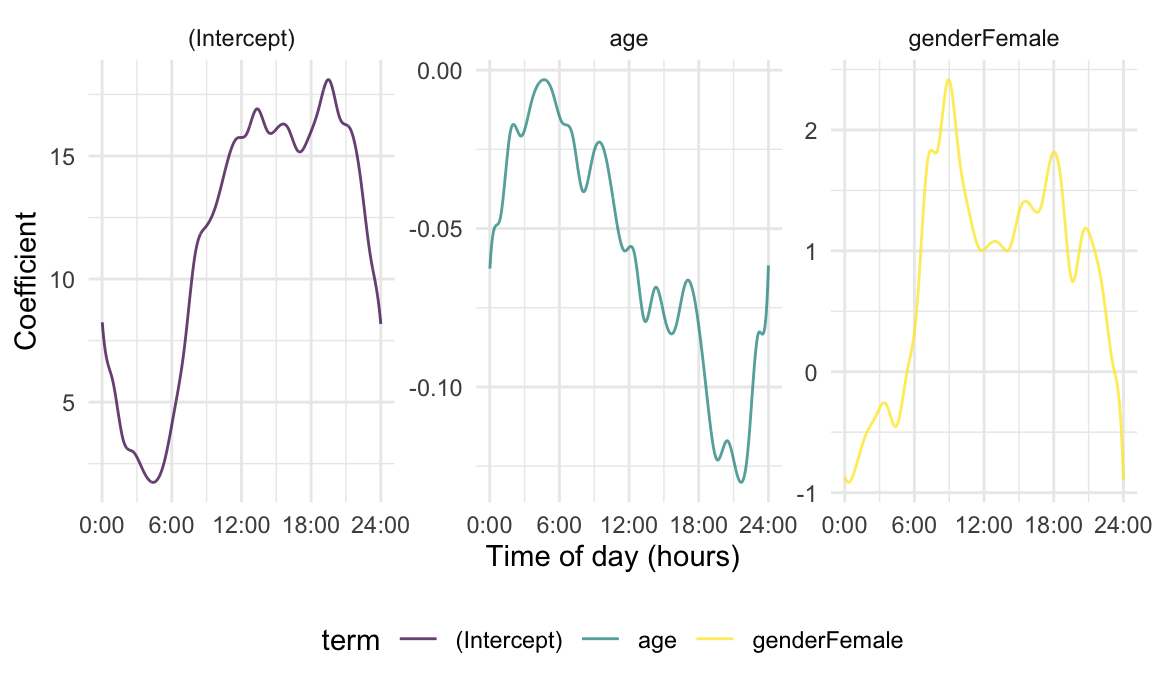
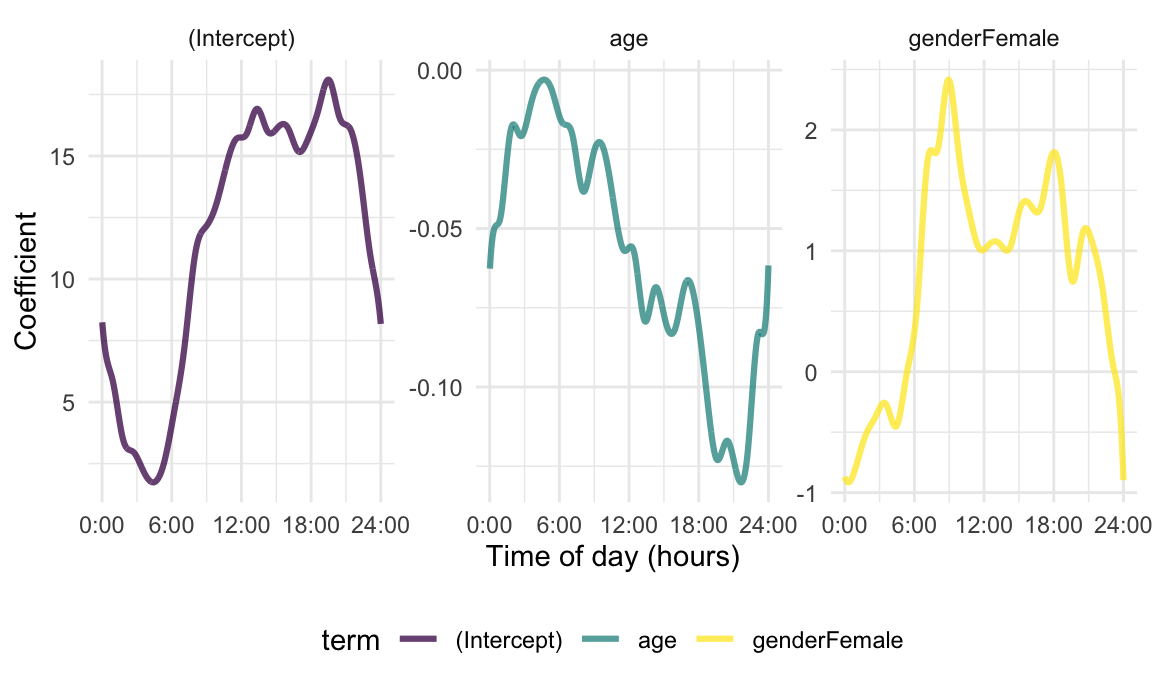
update pffr() example so gender is correctly specified. also reknitting -> updating some plots.

diff --git a/chapter_05.html b/chapter_05.html
@@ -13,7 +13,7 @@
 
 <title>Chapter 5: FoSR</title>
 
-<script src="site_libs/header-attrs-2.28/header-attrs.js"></script>
+<script src="site_libs/header-attrs-2.24/header-attrs.js"></script>
 <script src="site_libs/jquery-3.6.0/jquery-3.6.0.min.js"></script>
 <meta name="viewport" content="width=device-width, initial-scale=1" />
 <link href="site_libs/bootstrap-3.3.5/css/cosmo.min.css" rel="stylesheet" />
@@ -500,7 +500,12 @@ functions at the midpoint of each hour.</p>
     MIMS_hour = 
       tf_smooth(MIMS_tf, method = &quot;rollmean&quot;, k = 60, align = &quot;center&quot;),
     MIMS_hour = tfd(MIMS_hour, arg = seq(.5, 23.5, by = 1))) 
-## setting fill = &#39;extend&#39; for start/end values.</code></pre>
+## setting fill = &#39;extend&#39; for start/end values.
+## Warning: There was 1 warning in `mutate()`.
+## ℹ In argument: `MIMS_hour = tf_smooth(MIMS_tf, method = &quot;rollmean&quot;, k = 60,
+##   align = &quot;center&quot;)`.
+## Caused by warning:
+## ! non-equidistant arg-values in &#39;MIMS_tf&#39; ignored by rollmean.</code></pre>
 <p>The resulting <code>MIMS_hour</code> data are shown for a subset of
 participants in the Figure below. As before, we are interested in the
 effects of <code>age</code>, now treated as a continuous variable, and
@@ -571,9 +576,11 @@ point.</p>
   filter(MIMS_hour_arg == 13.5) %&gt;% 
   modelr::add_predictions(linear_fit) %&gt;% 
   ggplot(aes(x = age, y = MIMS_hour_value, color = gender)) + 
-  geom_point(alpha = .5, size = .9) + 
+  geom_point(alpha = .5, lwd = .9) + 
   geom_line(aes(y = pred), linewidth = 1.1) + 
-      labs(x = &quot;Age&quot;, y = &quot;Hour Average MIMS&quot;)</code></pre>
+      labs(x = &quot;Age&quot;, y = &quot;Hour Average MIMS&quot;)
+## Warning in geom_point(alpha = 0.5, lwd = 0.9): Ignoring unknown parameters:
+## `linewidth`</code></pre>
 <p><img src="chapter_05_files/figure-html/unnamed-chunk-7-1.png" width="90%" /></p>
 <p>In this plot, the binned-average MIMS values decrease with age, and
 female participants may have somewhat higher values than male
@@ -895,14 +902,12 @@ below estimates spline coefficients.</p>
 
 OLS_coef_df %&gt;% 
   ggplot(aes(y = coef, color = term)) + 
-  geom_spaghetti(size = 1.1, alpha = .75) +  
+  geom_spaghetti(lwd = 1.1, alpha = .75) +  
   facet_wrap(&quot;term&quot;, scales = &quot;free&quot;) + 
   scale_x_continuous(
     breaks = seq(0, 24, length = 5),
     labels = str_c(seq(0, 24, length = 5), &quot;:00&quot;)) + 
-  labs(x = &quot;Time of day (hours)&quot;, y = &quot;Coefficient&quot;)
-## Warning in geom_spaghetti(size = 1.1, alpha = 0.75): Ignoring unknown
-## parameters: `size`</code></pre>
+  labs(x = &quot;Time of day (hours)&quot;, y = &quot;Coefficient&quot;)</code></pre>
 <p><img src="chapter_05_files/figure-html/unnamed-chunk-17-1.png" width="90%" /></p>
 <p>Comparing these results to those obtained from epoch-specific
 regressions begins to indicate the benefits of a functional perspective.
@@ -1033,14 +1038,12 @@ effect, which must be added to the intercept function.</p>
 functions using tools seen previously.</p>
 <pre class="r"><code>gam_coef_df %&gt;% 
   ggplot(aes(y = coef, color = term)) + 
-  geom_spaghetti(size = 1.1, alpha = .75) +  
+  geom_spaghetti(lwd = 1.1, alpha = .75) +  
   facet_wrap(vars(term), scales = &quot;free&quot;) + 
   scale_x_continuous(
     breaks = seq(0, 24, length = 5),
     labels = str_c(seq(0, 24, length = 5), &quot;:00&quot;)) + 
-  labs(x = &quot;Time of day (hours)&quot;, y = &quot;Coefficient&quot;)
-## Warning in geom_spaghetti(size = 1.1, alpha = 0.75): Ignoring unknown
-## parameters: `size`</code></pre>
+  labs(x = &quot;Time of day (hours)&quot;, y = &quot;Coefficient&quot;)</code></pre>
 <p><img src="chapter_05_files/figure-html/unnamed-chunk-22-1.png" width="90%" /></p>
 <p>The plot below includes estimates obtained from the three approaches
 seen so far, and facilitates a comparison of methods. Each approach –
@@ -1199,7 +1202,9 @@ FPCs than the default implementation.</p>
   tf_nest(resid, .id = SEQN, .arg = epoch)
 
 nhanes_resid_fpca = 
-  rfr_fpca(&quot;resid&quot;, nhanes_fpca_df, center = FALSE, lambda = 50)</code></pre>
+  rfr_fpca(&quot;resid&quot;, nhanes_fpca_df, center = FALSE, lambda = 50)
+## Warning: domain for tfb_fpc can&#39;t be larger than observed arg-range -- extrapolating FPCs is a bad idea.
+##  domain reset to [0.017,24]</code></pre>
 <p>The second step in our two-stage approach is to treat the resulting
 FPCs as “known” so that scores can be estimated as random effects. We
 will use a variation on the random intercept implementation to do this.
@@ -1410,10 +1415,13 @@ implement binned regression. The hour-level MIMS is named
 <code>MIMS_hour_mat</code> and stored as a matrix in a column, and we
 emphasize that this data structure used is different from the data
 structure used in the <code>mgcv::bam()</code> function, where
-functional responses were organized in long format. \</p>
+functional responses were organized in long format. Note that, as in the
+<code>gam</code> fits, we explicitly create a binary indicator for the
+<code>gender</code> variable.</p>
 <pre class="r"><code>nhanes_famm_df &lt;-
   nhanes_df %&gt;%
   mutate(
+    gender = as.numeric(gender == &quot;Female&quot;),
     MIMS_hour_tf = 
       tf_smooth(MIMS_tf, method = &quot;rollmean&quot;, k = 60, align = &quot;center&quot;),
     MIMS_hour_tf = tfd(MIMS_hour_tf, arg = seq(.5, 23.5, by = 1))) %&gt;%
@@ -1421,6 +1429,11 @@ functional responses were organized in long format. \</p>
   rename(epoch = MIMS_hour_tf_arg, MIMS_hour = MIMS_hour_tf_value) %&gt;%
   pivot_wider(names_from = epoch, values_from = MIMS_hour)
 ## setting fill = &#39;extend&#39; for start/end values.
+## Warning: There was 1 warning in `mutate()`.
+## ℹ In argument: `MIMS_hour_tf = tf_smooth(MIMS_tf, method = &quot;rollmean&quot;, k = 60,
+##   align = &quot;center&quot;)`.
+## Caused by warning:
+## ! non-equidistant arg-values in &#39;MIMS_tf&#39; ignored by rollmean.
 
 MIMS_hour_mat &lt;-
   nhanes_famm_df %&gt;%
@@ -1460,9 +1473,7 @@ we again add the population intercept to the intercept function.</p>
     coef = coef + c(nhanes_famm$coef[1], 0, 0),
     ub = coef + 1.96 * se, 
     lb = coef - 1.96 * se) 
-## using seWithMean for  s(yindex.vec) .
-## using seWithMean for  s(yindex.vec):genderMale .
-## using seWithMean for  s(yindex.vec):genderFemale .</code></pre>
+## using seWithMean for  s(yindex.vec) .</code></pre>
 <p>The next Figure shows the fixed effects estimates obtained using
 <code>pffr()</code>. Notice that these estimates are similar to those
 using separate epoch-level regressions, and in particular those using
@@ -1561,14 +1572,13 @@ including penalized splines; this suggests that this technique is a
 plausible and scalable approach to FoSR modeling.</p>
 <pre class="r"><code>fui_coef_df %&gt;% 
   ggplot(aes(y = smooth_coef, color = term)) + 
-  geom_spaghetti(size = 1.2) + 
+  geom_spaghetti(lwd = 1.2) + 
   geom_spaghetti(aes(y = coef), alpha = .2)  + 
   facet_wrap(~term, scales = &quot;free&quot;) + 
   scale_x_continuous(
     breaks = seq(0, 24, length = 5),
     labels = str_c(seq(0, 24, length = 5), &quot;:00&quot;)) + 
-  labs(x = &quot;Time of day (hours)&quot;, y = &quot;Coefficient&quot;)
-## Warning in geom_spaghetti(size = 1.2): Ignoring unknown parameters: `size`</code></pre>
+  labs(x = &quot;Time of day (hours)&quot;, y = &quot;Coefficient&quot;)</code></pre>
 <p><img src="chapter_05_files/figure-html/unnamed-chunk-38-1.png" width="90%" /></p>
 <p>An important focus is to model error structures and thereby obtain
 accurate inference. The scalable approach we suggest in this section
@@ -1623,20 +1633,16 @@ account for the complete joint distribution of the functions.</p>
     ub = est + 1.96 * se, 
     lb = est - 1.96 * se) %&gt;% 
   ggplot(aes(y = est, color = term)) + 
-  geom_spaghetti(size = 1.2, alpha = .9) + 
+  geom_spaghetti(lwd = 1.2, alpha = .9) + 
   geom_spaghetti(
     data = filter(fui_bootstrap_results, iteration &lt;= 25), 
-    aes(y = smooth_coef), alpha = .25, size = .5) +
+    aes(y = smooth_coef), alpha = .25, lwd = .5) +
   geom_errorband(aes(ymax = ub, ymin = lb, fill = term), alpha = .15)  + 
   facet_wrap(~term, scales = &quot;free&quot;)  + 
   scale_x_continuous(
     breaks = seq(0, 24, length = 5),
     labels = str_c(seq(0, 24, length = 5), &quot;:00&quot;)) + 
-  labs(x = &quot;Time of day (hours)&quot;, y = &quot;Coefficient&quot;)
-## Warning in geom_spaghetti(size = 1.2, alpha = 0.9): Ignoring unknown
-## parameters: `size`
-## Warning in geom_spaghetti(data = filter(fui_bootstrap_results, iteration &lt;= :
-## Ignoring unknown parameters: `size`</code></pre>
+  labs(x = &quot;Time of day (hours)&quot;, y = &quot;Coefficient&quot;)</code></pre>
 <p><img src="chapter_05_files/figure-html/unnamed-chunk-40-1.png" width="90%" /></p>
 </div>
 

diff --git a/site_libs/header-attrs-2.28/header-attrs.js b/site_libs/header-attrs-2.28/header-attrs.js
@@ -1,0 +1,12 @@
+// Pandoc 2.9 adds attributes on both header and div. We remove the former (to
+// be compatible with the behavior of Pandoc < 2.8).
+document.addEventListener('DOMContentLoaded', function(e) {
+  var hs = document.querySelectorAll("div.section[class*='level'] > :first-child");
+  var i, h, a;
+  for (i = 0; i < hs.length; i++) {
+    h = hs[i];
+    if (!/^h[1-6]$/i.test(h.tagName)) continue;  // it should be a header h1-h6
+    a = h.attributes;
+    while (a.length > 0) h.removeAttribute(a[0].name);
+  }
+});
